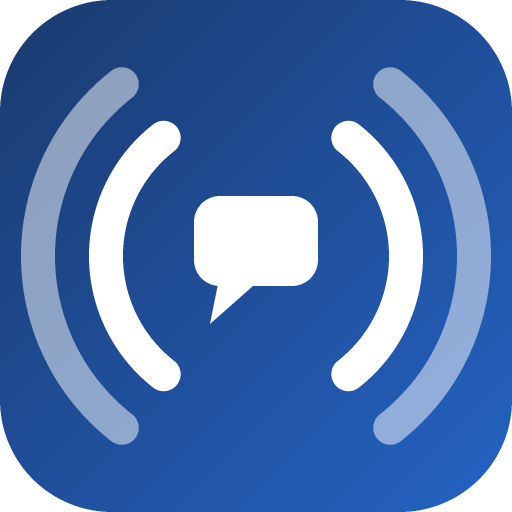
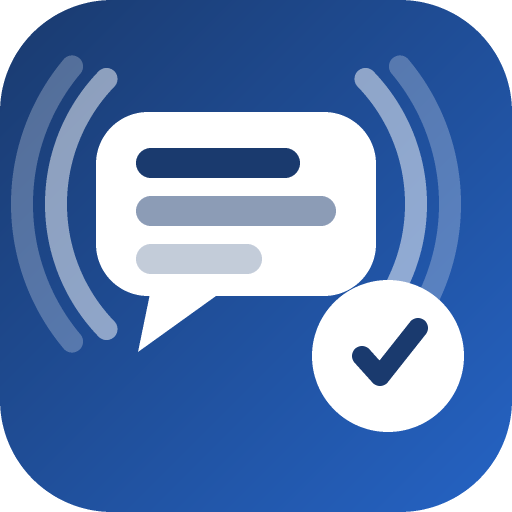
rehace el isotipo para que cuente el metodo, no solo "escuchar"
El anterior (globo con ondas) era un icono de escucha generico: no decia nada
de lo que hace el sistema. El nuevo lo cuenta de fuera hacia dentro:

- arcos: el eco de la multitud de usuarios (CrowdRE),
- globo de dialogo: la opinion cruda,
- tres renglones de distinto peso dentro del globo: los requisitos ya
  separados por tipo (RF, RNF, Ruido), que es lo que hace la fase 4,
- sello con el tic: la validacion humana de la fase 5, que nunca se omite.

El logotipo mantiene la C y la O como los mismos arcos del eco.

scripts/marca.py pasa a nombrar cada composicion por lo que significa
(globo, renglones, sello_validacion, eco_arcos) en vez de por su forma, para
que se entienda al leerlo por que el isotipo es como es.

113 pruebas en verde.

diff --git a/scripts/marca.py b/scripts/marca.py
@@ -112,19 +112,18 @@ def svg_de(fig):
     raise ValueError(tipo)
 
 
-def globo(cx, cy, escala=1.0):
-    """Globo de dialogo: la opinion del usuario."""
-    a, b, r = 62 * escala, 48 * escala, 26 * escala
-    return [
-        rrect(cx - a, cy - b, cx + a, cy + b - 6 * escala, r, BLANCO),
-        tri(cx - 36 * escala, cy + 30 * escala,
-            cx - 46 * escala, cy + 80 * escala,
-            cx + 6 * escala, cy + 34 * escala, BLANCO),
-    ]
+def disco(cx, cy, r, color, op=1.0):
+    """Circulo relleno (se dibuja como un arco cerrado de grosor r)."""
+    return ("arco", (cx, cy, r / 2, -180, 180, r), color, op)
+
+
+def capsula(x0, y0, x1, y1, color, op=1.0):
+    """Renglon de esquinas totalmente redondeadas."""
+    return rrect(x0, y0, x1, y1, (y1 - y0) / 2, color, op)
 
 
 def eco_arcos(cx, cy, pares, grosor, apertura=52.0):
-    """Arcos a ambos lados: el eco que va y vuelve."""
+    """Arcos a ambos lados: el eco de la multitud de usuarios, que va y vuelve."""
     figs = []
     for r, op in pares:
         figs.append(arco(cx, cy, r, -apertura, apertura, grosor, BLANCO, op))
@@ -132,18 +131,59 @@ def eco_arcos(cx, cy, pares, grosor, apertura=52.0):
     return figs
 
 
+def globo(x0, y0, x1, y1, r, rabito):
+    """Globo de dialogo: la opinion cruda del usuario."""
+    ax, ay, bx, by, cx, cy = rabito
+    return [rrect(x0, y0, x1, y1, r, BLANCO), tri(ax, ay, bx, by, cx, cy, BLANCO)]
+
+
+def renglones(filas):
+    """Lo que el metodo saca de la opinion: renglones de distinto peso.
+
+    Los tres pesos no son decorativos — representan las tres etiquetas del
+    dominio (RF, RNF, Ruido), que es justo lo que la fase 4 separa.
+    """
+    return [capsula(x0, y0, x1, y1, NAVY, op) for x0, y0, x1, y1, op in filas]
+
+
+def sello_validacion(cx, cy, r, tic):
+    """El tic de la fase 5: nada sale del sistema sin que una persona lo apruebe."""
+    (ax, ay), (bx, by), (dx, dy), grosor = tic
+    return [
+        disco(cx, cy, r, BLANCO),
+        seg(ax, ay, bx, by, grosor, NAVY),
+        seg(bx, by, dx, dy, grosor, NAVY),
+    ]
+
+
 def isotipo():
+    """La historia completa: la opinion entra, sale clasificada, un humano la valida.
+
+    De fuera hacia dentro: el eco de la multitud (arcos), la opinion (globo),
+    los requisitos ya separados por tipo (renglones) y la validacion (sello).
+    """
     figs = [rrect(0, 0, 512, 512, 112, GRAD)]
-    figs += eco_arcos(256, 256, [(150.0, 1.0), (218.0, 0.5)], 34)
-    figs += globo(256, 244)
+    figs += eco_arcos(236, 204, [(180.0, 0.5)], 22, apertura=44)
+    figs += eco_arcos(236, 204, [(214.0, 0.25)], 22, apertura=40)
+    figs += globo(96, 112, 376, 296, 52, (152, 284, 138, 352, 216, 296))
+    figs += renglones([
+        (136, 148, 300, 178, 1.0),
+        (136, 196, 336, 226, 0.5),
+        (136, 244, 262, 274, 0.26),
+    ])
+    figs += sello_validacion(388, 356, 76, ((362, 356), (380, 376), (418, 328), 20))
     return figs
 
 
 def favicon():
-    """Menos elementos y mas gruesos: tiene que leerse a 16-32 px."""
+    """Version reducida: a 16-32 px solo sobreviven globo, dos renglones y sello."""
     figs = [rrect(0, 0, 512, 512, 96, GRAD)]
-    figs += eco_arcos(256, 256, [(190.0, 1.0)], 46, apertura=44)
-    figs += globo(256, 238, escala=1.30)
+    figs += globo(72, 118, 396, 330, 56, (132, 312, 112, 402, 236, 322))
+    figs += renglones([
+        (120, 168, 300, 208, 1.0),
+        (120, 238, 348, 278, 0.45),
+    ])
+    figs += sello_validacion(390, 362, 104, ((354, 362), (378, 390), (430, 320), 26))
     return figs
 
 

diff --git a/docs/bitacora-experimentos.md b/docs/bitacora-experimentos.md
@@ -664,13 +664,18 @@ Plantilla de entrada:
     se reescriben.
 - **Verificación:** 113 pruebas en verde tras reinstalar el paquete con el nombre nuevo.
 - **Pendiente para la autora:** renombrar el repositorio en GitHub y actualizar el remoto.
-- **Identidad visual (mismo día):** el isotipo es un globo de diálogo —la opinión— con
-  el eco a ambos lados; la C y la O del logotipo son los mismos arcos, para que la marca
-  y el nombre cuenten lo mismo. Se descartó una primera versión de ondas radiando a un
-  solo lado porque se leía como un icono de wifi genérico: decía "emite señal", no
-  "escucha" ni "eco". Los archivos (SVG para la aplicación, PNG para el documento de
-  tesis) **no se editan a mano**: los genera `scripts/marca.py`, que trae su propio
-  rasterizador sin dependencias — la marca queda tan reproducible como los experimentos.
-  Efecto secundario que hubo que resolver: al servir estáticos propios con manifiesto,
-  `pytest` pasaba a depender de haber corrido `collectstatic`; `tests/conftest.py` lo
-  aísla para que la suite siga siendo independiente del despliegue.
+- **Identidad visual (mismo día):** el isotipo cuenta el método completo, de fuera hacia
+  dentro: el eco de la multitud (arcos), la opinión cruda (globo de diálogo), los requisitos
+  ya separados por tipo (tres renglones de distinto peso — RF, RNF, Ruido) y el sello con el
+  tic de la validación humana, que es la fase que nunca se omite. El logotipo repite la idea:
+  la C y la O son los mismos arcos del eco.
+  Se descartaron dos versiones anteriores: unas ondas radiando a un solo lado (se leía como
+  un icono de wifi genérico) y un globo con eco pero sin contenido — ambas decían "escuchar",
+  cuando lo que hace el sistema es **convertir opiniones ruidosas en requisitos clasificados
+  que una persona valida**. Si la marca no dice eso, no dice nada del proyecto.
+  Los archivos (SVG para la aplicación, PNG para el documento de tesis) **no se editan a
+  mano**: los genera `scripts/marca.py`, que trae su propio rasterizador sin dependencias —
+  la marca queda tan reproducible como los experimentos. Efecto secundario que hubo que
+  resolver: al servir estáticos propios con manifiesto, `pytest` pasaba a depender de haber
+  corrido `collectstatic`; `tests/conftest.py` lo aísla para que la suite siga siendo
+  independiente del despliegue.
